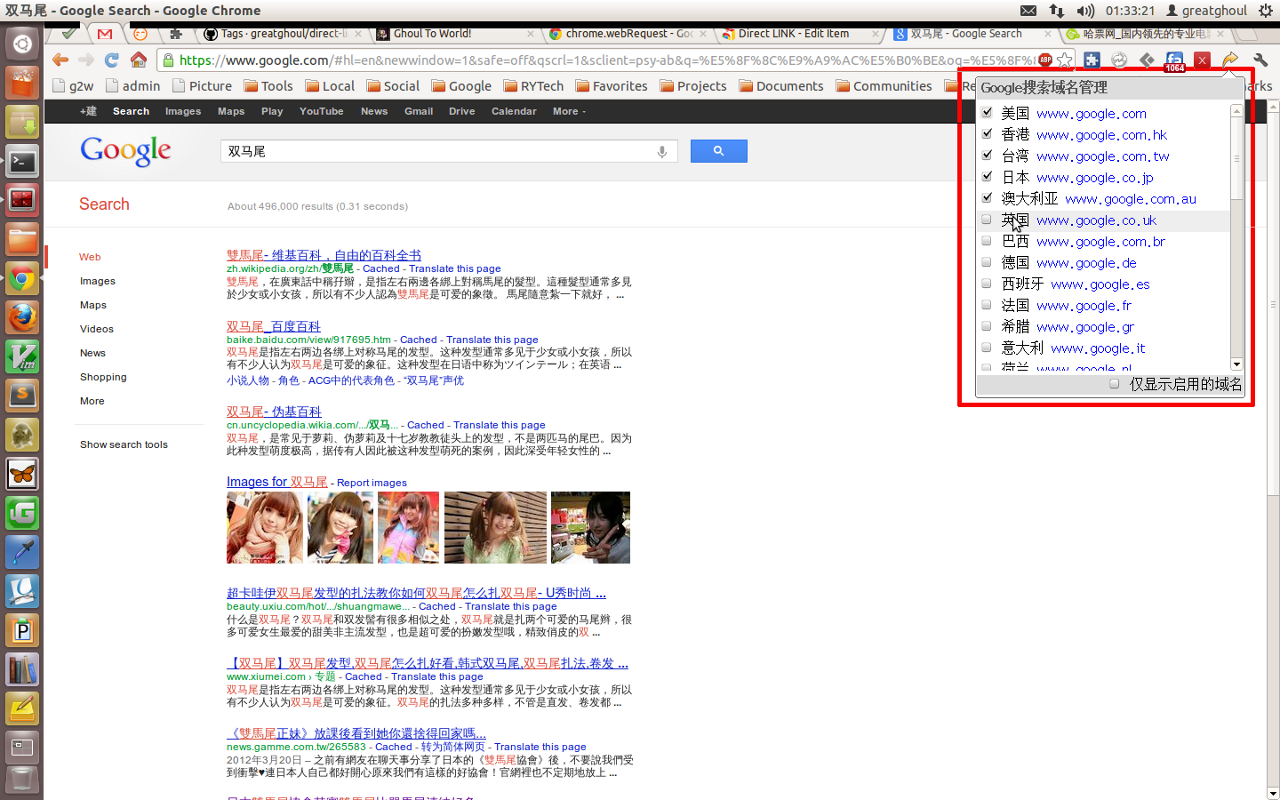
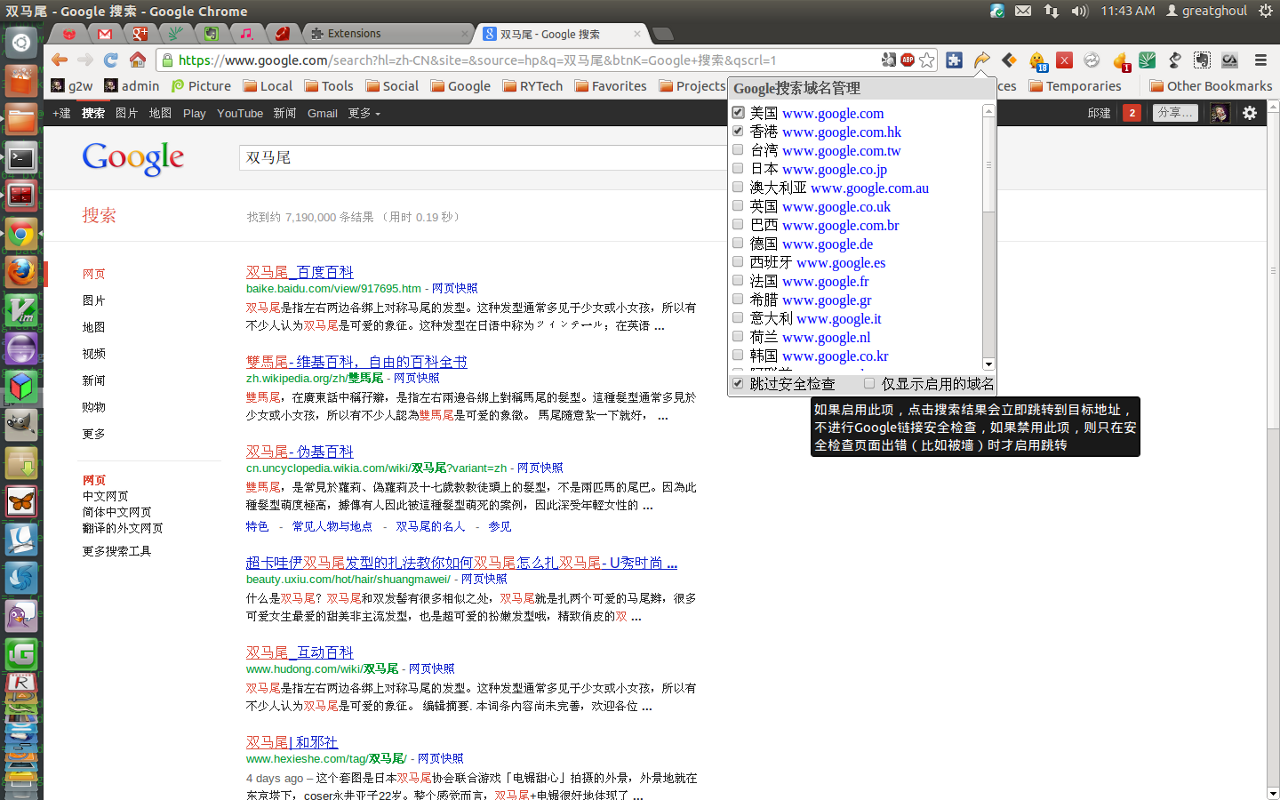
更新至1.3，增加跳过安全检查的设置

diff --git a/direct-link/background.js b/direct-link/background.js
@@ -1,5 +1,10 @@
 var RE_SEARCH = /https?\:\/\/(www\.google\.[^\/]+)\/url\?.*/;
 var RE_IMAGES = /https?\:\/\/(www\.google\.[^\/]+)\/imgres\?.*/;
+var FILTERS = { urls: ['<all_urls>'], types: ['main_frame', 'sub_frame'] };
+
+function get_option(name) {
+    return localStorage[name];
+}
 
 // 启用和禁用域名
 function toggle_domain(domain_name, enabled) {
@@ -8,6 +13,11 @@ function toggle_domain(domain_name, enabled) {
     } else {
         delete localStorage[domain_name];
     }
+}
+
+// 启用和禁用安全检查
+function toggle_safe_check(enabled) {
+    localStorage['skip-safe-check'] = enabled; 
 }
 
 // 遍历域名
@@ -24,14 +34,36 @@ function execute_setup() {
     var firstRun = (localStorage['firstRun'] === 'true');
     if (!firstRun) {
       localStorage['firstRun'] = 'true';
+      localStorage['skip-safe-check'] = 'true';
       localStorage['www.google.com'] = 'domain-enabled';
       localStorage['www.google.com.hk'] = 'domain-enabled';
+    } else {
+      localStorage['skip-safe-check'] = localStorage['skip-safe-check'] || true;
     }
+
+    
+    chrome.webRequest.onErrorOccurred.addListener(function(details) {
+        return handler_wrapper('error', details); 
+    }, FILTERS);
+    chrome.webRequest.onBeforeRequest.addListener(function(details) {
+        return handler_wrapper('before', details); 
+    }, FILTERS, ['blocking']);
 }
 execute_setup();
 
-// Google搜索结果被重置时，重定义页面到搜索结果目标页面
-chrome.webRequest.onErrorOccurred.addListener(function(details) {
+function empty() {}
+
+function handler_wrapper(type, details) {
+    details.direct_type = type;
+    if (localStorage['skip-safe-check'] === 'true') {
+        return type === 'error' ? empty() : direct_handler(details); 
+    } else {
+        return type === 'before' ? empty() : direct_handler(details); 
+    }
+}
+
+function direct_handler(details) {
+
     if (RE_SEARCH.test(details.url)) {
         try {
             var url = details.url.match(/url=([^&]+)/ig) 
@@ -39,7 +71,11 @@ chrome.webRequest.onErrorOccurred.addListener(function(details) {
             var domain = details.url.match(RE_SEARCH) && RegExp.$1;
             if (domain in localStorage) {
                 console.debug('Page Url: ' + url);
-                chrome.tabs.update(details.tabId, { 'url': url });
+                if (details.direct_type === 'error') {
+                    chrome.tabs.update(details.tabId, { 'url': url });
+                } else {
+                    return { redirectUrl: url };
+                }
             }
         } catch (e) {
             console.error(e);
@@ -54,10 +90,14 @@ chrome.webRequest.onErrorOccurred.addListener(function(details) {
             if (domain in localStorage) {
                 console.debug('Image Url: ' + url);
                 console.debug('Refer Url: ' + refer);
-                chrome.tabs.update(details.tabId, { 'url': url });
+                if (details.direct_type === 'error') {
+                    chrome.tabs.update(details.tabId, { 'url': url });
+                } else {
+                    return { redirectUrl: url };
+                }
             }
         } catch (e) {
             console.error(e);
         }
     }
-}, { urls: ['<all_urls>'], types: ['main_frame', 'sub_frame'] });
+}

diff --git a/direct-link/popup.html b/direct-link/popup.html
@@ -47,6 +47,9 @@
             <li><label><input type="checkbox" class="domain" value="www.google.se" /> 瑞典 <span>www.google.se</span></label></li>
             <li><label><input type="checkbox" class="domain" value="www.google.vg" /> 维京群岛 <span>www.google.vg</span></label></li>
         </ul>
-        <div class="footer"><label><input type="checkbox" id="show-enabled-only" /> 仅显示启用的域名</label></div>
+        <div class="footer">
+            <label class="pull-left" title="如果启用此项，点击搜索结果会立即跳转到目标地址，不进行Google链接安全检查，如果禁用此项，则只在安全检查页面出错（比如被墙）时才启用跳转"><input type="checkbox" id="skip-safe-check" /> 跳过安全检查</label>
+            <label><input type="checkbox" id="show-enabled-only" /> 仅显示启用的域名</label>
+        </div>
     </body>
 </html>

diff --git a/direct-link/popup.js b/direct-link/popup.js
@@ -2,6 +2,8 @@ var app = chrome.extension.getBackgroundPage();
 
 $(function() {
     var $show_enabled = $('#show-enabled-only');
+    var $skip_safe_check = $('#skip-safe-check');
+
     // 选中已经启用的域名
     app.iter_enabled_domains(function(domain_name) {
         $('.domain[value="' + domain_name + '"]').prop('checked', true); 
@@ -20,5 +22,12 @@ $(function() {
         var flag = $show_enabled.prop('checked');
         $('.domain-list li .domain').not(':checked').parents('li').toggle(!flag);
     });
+    
+    $skip_safe_check.click(function() {
+        var flag = $skip_safe_check.prop('checked');
+        app.toggle_safe_check(flag); 
+    });
+
+    $skip_safe_check.prop('checked', app.get_option('skip-safe-check') === 'true');
 });
 

diff --git a/direct-link/popup.css b/direct-link/popup.css
@@ -4,3 +4,4 @@ h3 { color: #555; background: #ddd; font-size: 16px; line-height: 20px; margin: 
 .domain-list li:hover { background: #eee; }
 .domain-list li label span { color: blue; }
 .footer { height: 22px; background: #ddd; text-align: right; }
+.pull-left { float: left; }

diff --git a/README.md b/README.md
@@ -5,6 +5,10 @@ direct-link.crx
 
 ### 更新日志
 
+**1.3 2012/11/13**
+
+  * 支持设置是否跳过链接安全检查（安全检查会影响搜索结果的打开速度，禁用可以快速打开目标页面，但会降低安全性）
+
 **1.2 2012/09/21**
 
   * 增强Google搜索在多个国家和地区域名的启用/禁用页面
